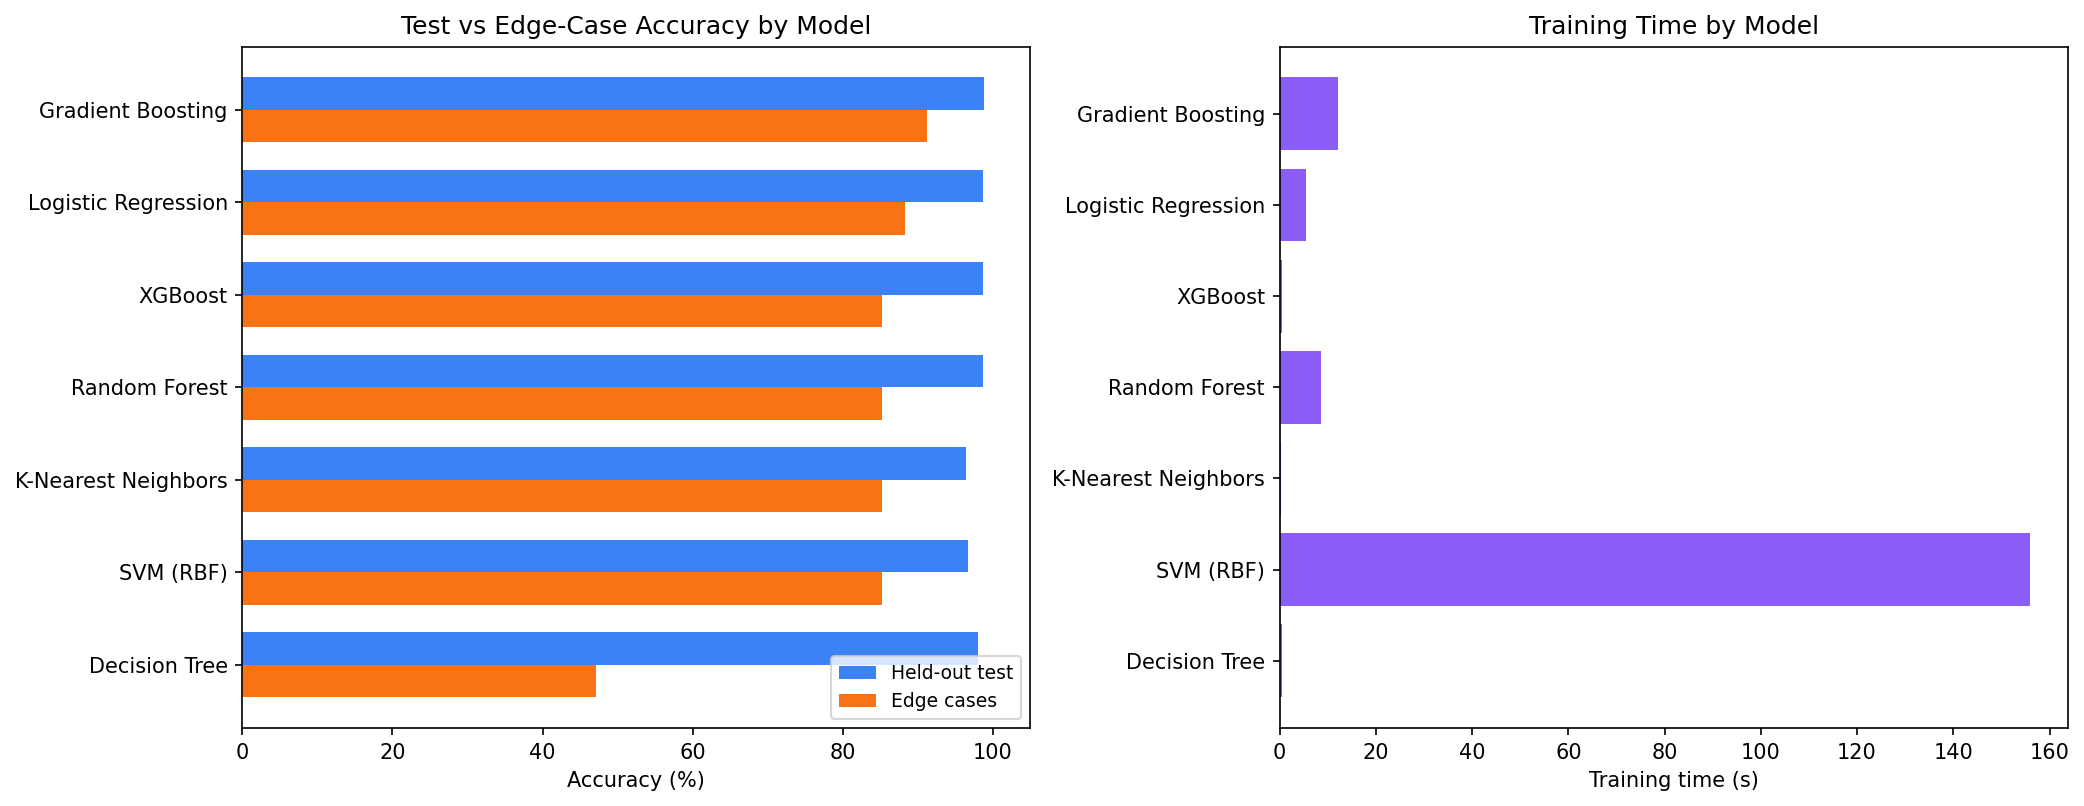
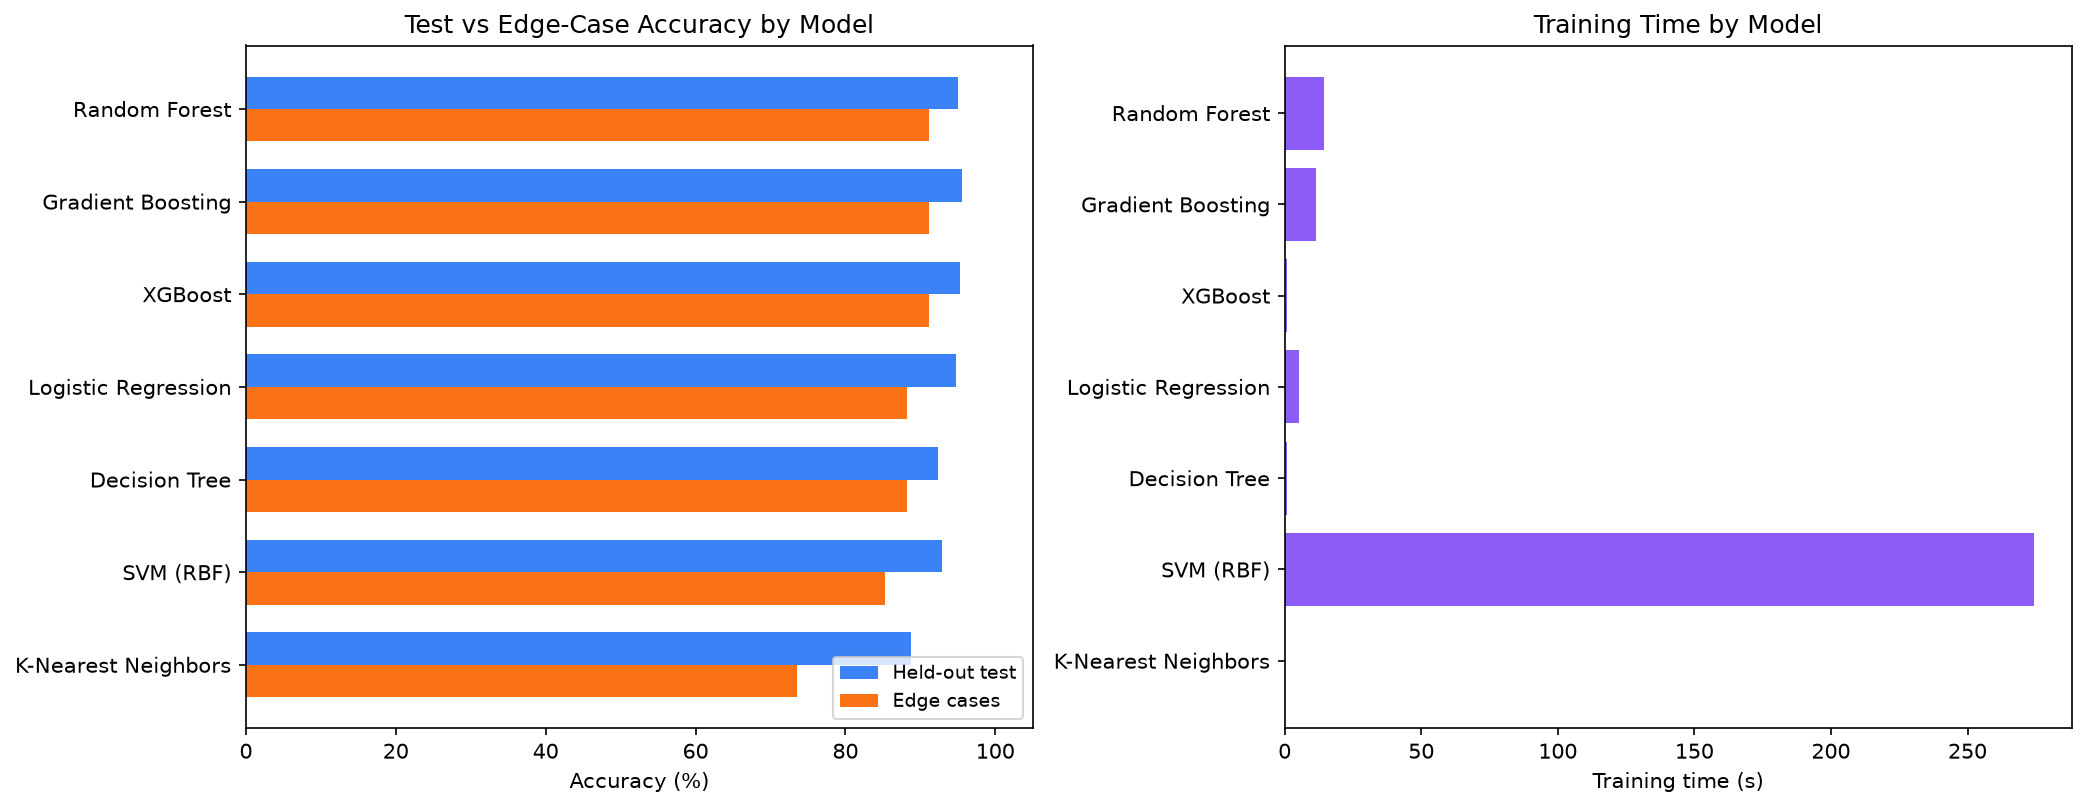
backend: refactor ml standardize symptom tokens with underscores

diff --git a/frontend/src/constants/patientOptions.ts b/frontend/src/constants/patientOptions.ts
@@ -1,7 +1,7 @@
 export const SYMPTOMS = [
-    'abdominal pain', 'blurred vision', 'body pain', 'breathlessness', 'chest pain',
+    'abdominal_pain', 'blurred_vision', 'body_pain', 'breathlessness', 'chest_pain',
     'confusion', 'cough', 'diarrhea', 'dizziness', 'fatigue', 'fever', 'headache',
-    'joint pain', 'limited movement', 'nausea', 'stiffness', 'sweating', 'swelling',
+    'joint_pain', 'limited_movement', 'nausea', 'stiffness', 'sweating', 'swelling',
     'vomiting', 'weakness',
 ]
 

diff --git a/backend/ml/constants.py b/backend/ml/constants.py
@@ -5,7 +5,7 @@ SAMPLE_SIZE = 50000
 GENDERS = ['male', 'female', 'other']
 
 SYMPTOMS_WEIGHT = {
-    "chest pain": 2,
+    "chest_pain": 2,
     "breathlessness": 2,
     "confusion": 2,
     "fatigue": 1,
@@ -14,16 +14,16 @@ SYMPTOMS_WEIGHT = {
     "fever": 1,
     "headache": 1,
     "dizziness": 1,
-    "blurred vision": 1,
-    "joint pain": 1,
+    "blurred_vision": 1,
+    "joint_pain": 1,
     "swelling": 1,
     "stiffness": 1,
-    "limited movement": 1,
-    "abdominal pain": 1,
+    "limited_movement": 1,
+    "abdominal_pain": 1,
     "nausea": 1,
     "vomiting": 1,
     "diarrhea": 1,
-    "body pain": 1,
+    "body_pain": 1,
     "weakness": 1,
 }
 
@@ -35,23 +35,24 @@ VITALS_WEIGHT = {
     "temp_high": 0,
     "temp_low": 0,
     "normal": 0,
+    "unknown" : 0
 }
 
-EMERGENCY_SYMPTOMS = ["chest pain", "breathlessness", "confusion"]
+EMERGENCY_SYMPTOMS = ["chest_pain", "breathlessness", "confusion"]
 EMERGENCY_VITALS = ["bp_low", "hr_high"]
 
 CONFIDENCE_THRESHOLD = 0.60
 SAFE_FALLBACK_DEPT = "general"
 
 KNOWN_SYMPTOMS = [
-    "chest pain", "breathlessness", "fatigue", "sweating",
+    "chest_pain", "breathlessness", "fatigue", "sweating",
     "cough", "fever", "headache", "dizziness", "confusion",
-    "blurred vision", "joint pain", "swelling", "stiffness",
-    "limited movement", "abdominal pain", "nausea", "vomiting",
-    "diarrhea", "body pain", "weakness"
+    "blurred_vision", "joint_pain", "swelling", "stiffness",
+    "limited_movement", "abdominal_pain", "nausea", "vomiting",
+    "diarrhea", "body_pain", "weakness"
 ]
 
-KNOWN_VITALS = ["bp_high", "bp_low", "hr_high", "hr_low", "temp_high", "temp_low", "normal"]
+KNOWN_VITALS = ["bp_high", "bp_low", "hr_high", "hr_low", "temp_high", "temp_low", "normal", "unknown"]
 
 ALIASES = {
     "bp high": "bp_high",
@@ -67,15 +68,15 @@ ALIASES = {
     "shortness of breath": "breathlessness",
     "short of breath": "breathlessness",
     "sob": "breathlessness",
-    "chest tightness": "chest pain",
-    "stomach pain": "abdominal pain",
-    "stomach ache": "abdominal pain",
-    "belly pain": "abdominal pain",
+    "chest tightness": "chest_pain",
+    "stomach pain": "abdominal_pain",
+    "stomach ache": "abdominal_pain",
+    "belly pain": "abdominal_pain",
     "loose motion": "diarrhea",
     "loose motions": "diarrhea",
-    "blurred": "blurred vision",
-    "blur": "blurred vision",
-    "joint ache": "joint pain",
+    "blurred": "blurred_vision",
+    "blur": "blurred_vision",
+    "joint ache": "joint_pain",
     "tired": "fatigue",
     "tiredness": "fatigue",
     "breathless": "breathlessness",
@@ -83,42 +84,103 @@ ALIASES = {
 
 DEPARTMENTS = {
     "cardiology": {
-        "symptoms": ["chest pain", "breathlessness", "fatigue", "sweating"],
-        "vitals": ["bp_high", "hr_high"],
-        "age_range": (45, 80),
-        "duration_range": (1, 5)
-    },
-    "pulmonology": {
-        "symptoms": ["cough", "breathlessness", "fever", "fatigue"],
-        "vitals": ["temp_high", "hr_high"],
-        "age_range": (20, 70),
+        "symptoms": [
+            "chest_pain",
+            "breathlessness",
+            "fatigue",
+            "sweating"
+        ],
+        "vitals": [
+            "bp_high",
+            "hr_high",
+            "normal"
+        ],
+        "age_range": (40, 85),
         "duration_range": (1, 7)
     },
-    "neurology": {
-        "symptoms": ["headache", "dizziness", "confusion", "blurred vision"],
-        "vitals": ["bp_low", "bp_high"],
-        "age_range": (30, 80),
+
+    "pulmonology": {
+        "symptoms": [
+            "cough",
+            "breathlessness",
+            "fever",
+            "fatigue"
+        ],
+        "vitals": [
+            "temp_high",
+            "hr_high",
+            "normal"
+        ],
+        "age_range": (15, 75),
         "duration_range": (1, 10)
     },
+
+    "neurology": {
+        "symptoms": [
+            "headache",
+            "dizziness",
+            "confusion",
+            "blurred_vision"
+        ],
+        "vitals": [
+            "bp_high",
+            "bp_low",
+            "normal"
+        ],
+        "age_range": (20, 85),
+        "duration_range": (1, 14)
+    },
+
     "orthopedics": {
-        "symptoms": ["joint pain", "swelling", "stiffness", "limited movement"],
-        "vitals": ["normal"],
-        "age_range": (40, 85),
-        "duration_range": (7, 30)
+        "symptoms": [
+            "joint_pain",
+            "swelling",
+            "stiffness",
+            "limited_movement"
+        ],
+        "vitals": [
+            "normal",
+            "hr_high",
+            "temp_high"
+        ],
+        "age_range": (30, 90),
+        "duration_range": (3, 45)
     },
+
     "gastrology": {
-        "symptoms": ["abdominal pain", "nausea", "vomiting", "diarrhea"],
-        "vitals": ["normal"],
-        "age_range": (20, 65),
-        "duration_range": (1, 5)
+        "symptoms": [
+            "abdominal_pain",
+            "nausea",
+            "vomiting",
+            "diarrhea"
+        ],
+        "vitals": [
+            "normal",
+            "bp_low",
+            "hr_high",
+            "temp_high"
+        ],
+        "age_range": (15, 75),
+        "duration_range": (1, 10)
     },
+
     "general": {
-        "symptoms": ["fever", "body pain", "weakness", "fatigue"],
-        "vitals": ["temp_high"],
-        "age_range": (15, 60),
-        "duration_range": (1, 5)
+        "symptoms": [
+            "fever",
+            "body_pain",
+            "weakness",
+            "fatigue"
+        ],
+        "vitals": [
+            "normal",
+            "temp_high",
+            "hr_high"
+        ],
+        "age_range": (10, 85),
+        "duration_range": (1, 14)
     }
 }
+
 
 OPPOSITES = {
     "bp_high": "bp_low",

diff --git a/backend/ml/train.py b/backend/ml/train.py
@@ -48,12 +48,20 @@ def train():
 
     )
 
-    model = make_pipeline(preprocessor, GradientBoostingClassifier(random_state=42))
+    model = make_pipeline(preprocessor, GradientBoostingClassifier(
+        n_estimators=150,
+        learning_rate=0.05,
+        max_depth=2,
+        random_state=42
+    ))
     model.fit(X_train, y_train)
+
+    vectorizer = model.named_steps["columntransformer"].named_transformers_["countvectorizer"]
+
+    print(vectorizer.get_feature_names_out()[:100])
 
     train_accuracy = model.score(X_train, y_train)
     test_accuracy = model.score(X_test, y_test)
-
     print(f"Train Accuracy: {train_accuracy * 100:.4f}%")
     print(f"Test Accuracy: {test_accuracy * 100:.4f}%")
 

diff --git a/backend/ml/generate_data.py b/backend/ml/generate_data.py
@@ -49,20 +49,23 @@ def generate_symptoms(dept):
 
 def generate_vitals(dept):
     vitals_list = [v for v in DEPARTMENTS[dept]["vitals"] if v != "normal"]
+    if random.random() < 0.05:
+        return ["unknown"]
 
-    if random.random() < 0.10:
+    if random.random() < 0.30:
         return ["normal"]
 
     if not vitals_list:
         return ["normal"]
 
-    base = list(dict.fromkeys(vitals_list))
+    count = min(random.randint(1, 2), len(vitals_list))
+    base = random.sample(vitals_list, count)
 
     if random.random() < 0.15 and base != ["normal"]:
         error_idx = random.randint(0, len(base) - 1)
         base[error_idx] = OPPOSITES.get(base[error_idx], base[error_idx])
 
-    if random.random() < 0.3:
+    if random.random() < 0.40:
         extra = random.choice(ALL_VITALS)
         if extra not in base and OPPOSITES.get(extra) not in base:
             base.append(extra)

diff --git a/backend/ml/predictors/patient_router.py b/backend/ml/predictors/patient_router.py
@@ -74,7 +74,7 @@ def predict_patient_router(data: dict) -> dict:
 
     vitals_missing = not vitals.strip()
     if vitals_missing:
-        vitals = "normal"
+        vitals = "unknown"
 
     if not isinstance(age, (int, float)) or age <= 0 or age > 120:
         logger.error(f"Invalid age received: {age}")

diff --git a/backend/reports/model_comparison.md b/backend/reports/model_comparison.md
@@ -2,10 +2,10 @@
 
 | Model               |   Test Accuracy (%) |   Macro F1 (%) |   5-Fold CV (%) |   CV Std (±%) |   Edge-Case Acc (%) |   Generalisation Gap |   Train Time (s) |
 |:--------------------|--------------------:|---------------:|----------------:|--------------:|--------------------:|---------------------:|-----------------:|
-| Gradient Boosting   |               98.84 |          98.84 |           99.04 |          0.07 |               91.18 |                  7.7 |            12.14 |
-| Logistic Regression |               98.65 |          98.65 |           98.86 |          0.12 |               88.24 |                 10.4 |             5.49 |
-| Random Forest       |               98.66 |          98.66 |           98.85 |          0.09 |               85.29 |                 13.4 |             8.5  |
-| SVM (RBF)           |               96.72 |          96.75 |           96.94 |          0.2  |               85.29 |                 11.4 |           155.98 |
-| K-Nearest Neighbors |               96.48 |          96.48 |           96.85 |          0.18 |               85.29 |                 11.2 |             0.2  |
-| XGBoost             |               98.73 |          98.73 |           98.88 |          0.14 |               85.29 |                 13.4 |             0.55 |
-| Decision Tree       |               98.09 |          98.09 |           98.17 |          0.16 |               47.06 |                 51   |             0.41 |
+| Random Forest       |               95.06 |          95.05 |           95.02 |          0.15 |               91.18 |                  3.9 |            14.29 |
+| Gradient Boosting   |               95.52 |          95.5  |           95.8  |          0.22 |               91.18 |                  4.3 |            11.58 |
+| XGBoost             |               95.27 |          95.26 |           95.38 |          0.18 |               91.18 |                  4.1 |             0.86 |
+| Decision Tree       |               92.35 |          92.35 |           92.14 |          0.27 |               88.24 |                  4.1 |             0.68 |
+| Logistic Regression |               94.73 |          94.72 |           94.64 |          0.29 |               88.24 |                  6.5 |             5.26 |
+| SVM (RBF)           |               92.89 |          92.93 |           93.16 |          0.16 |               85.29 |                  7.6 |           274.36 |
+| K-Nearest Neighbors |               88.71 |          88.74 |           88.93 |          0.28 |               73.53 |                 15.2 |             0.17 |